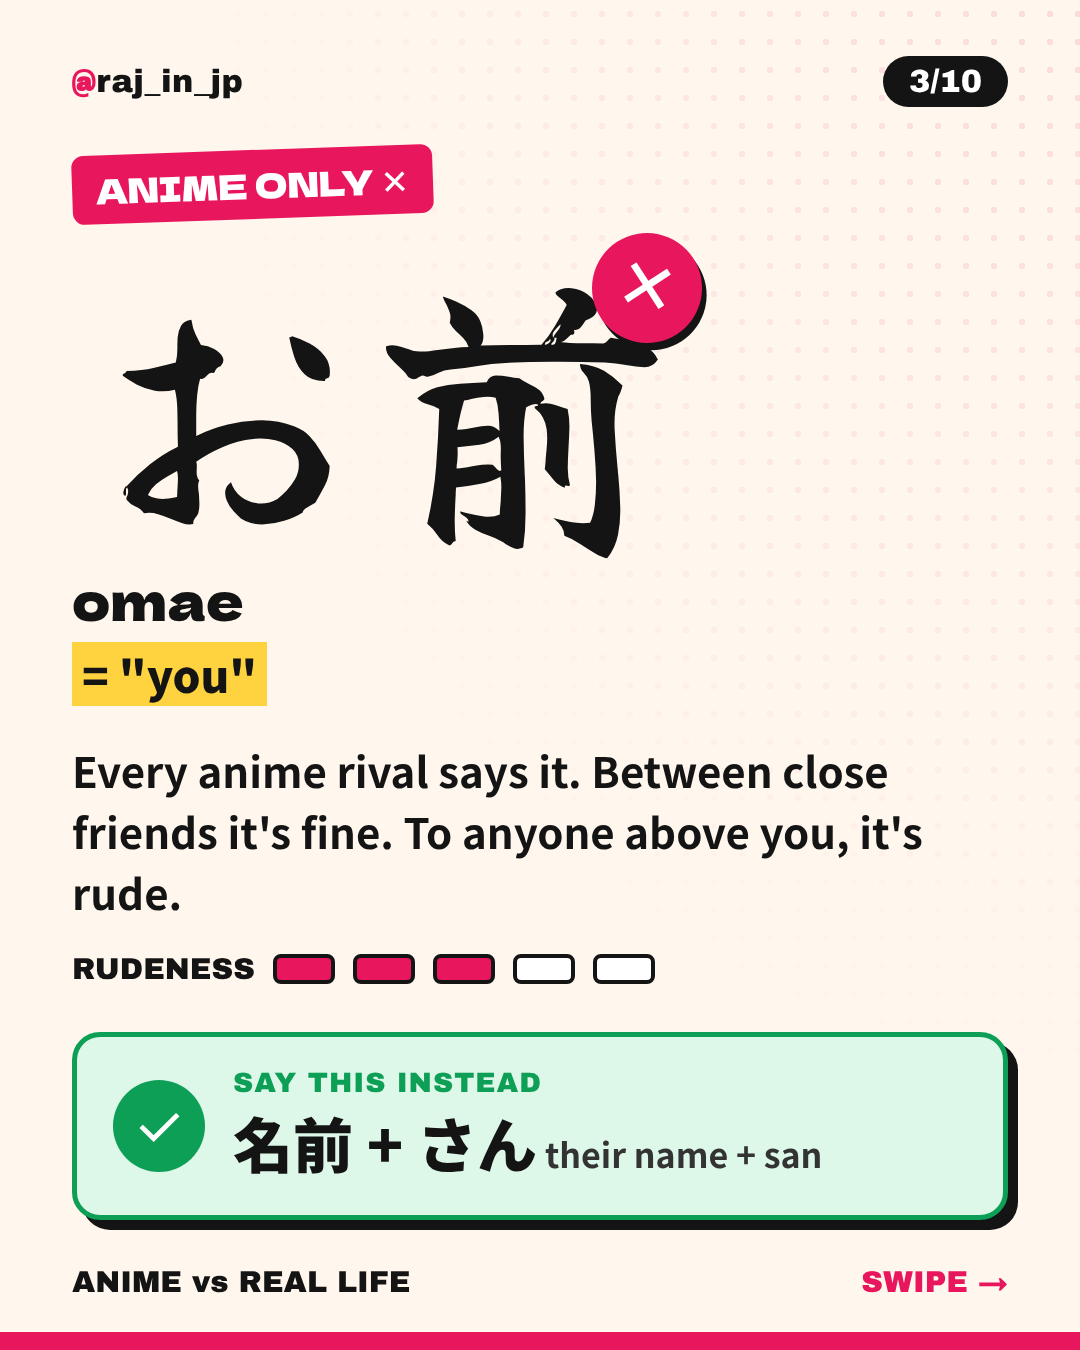
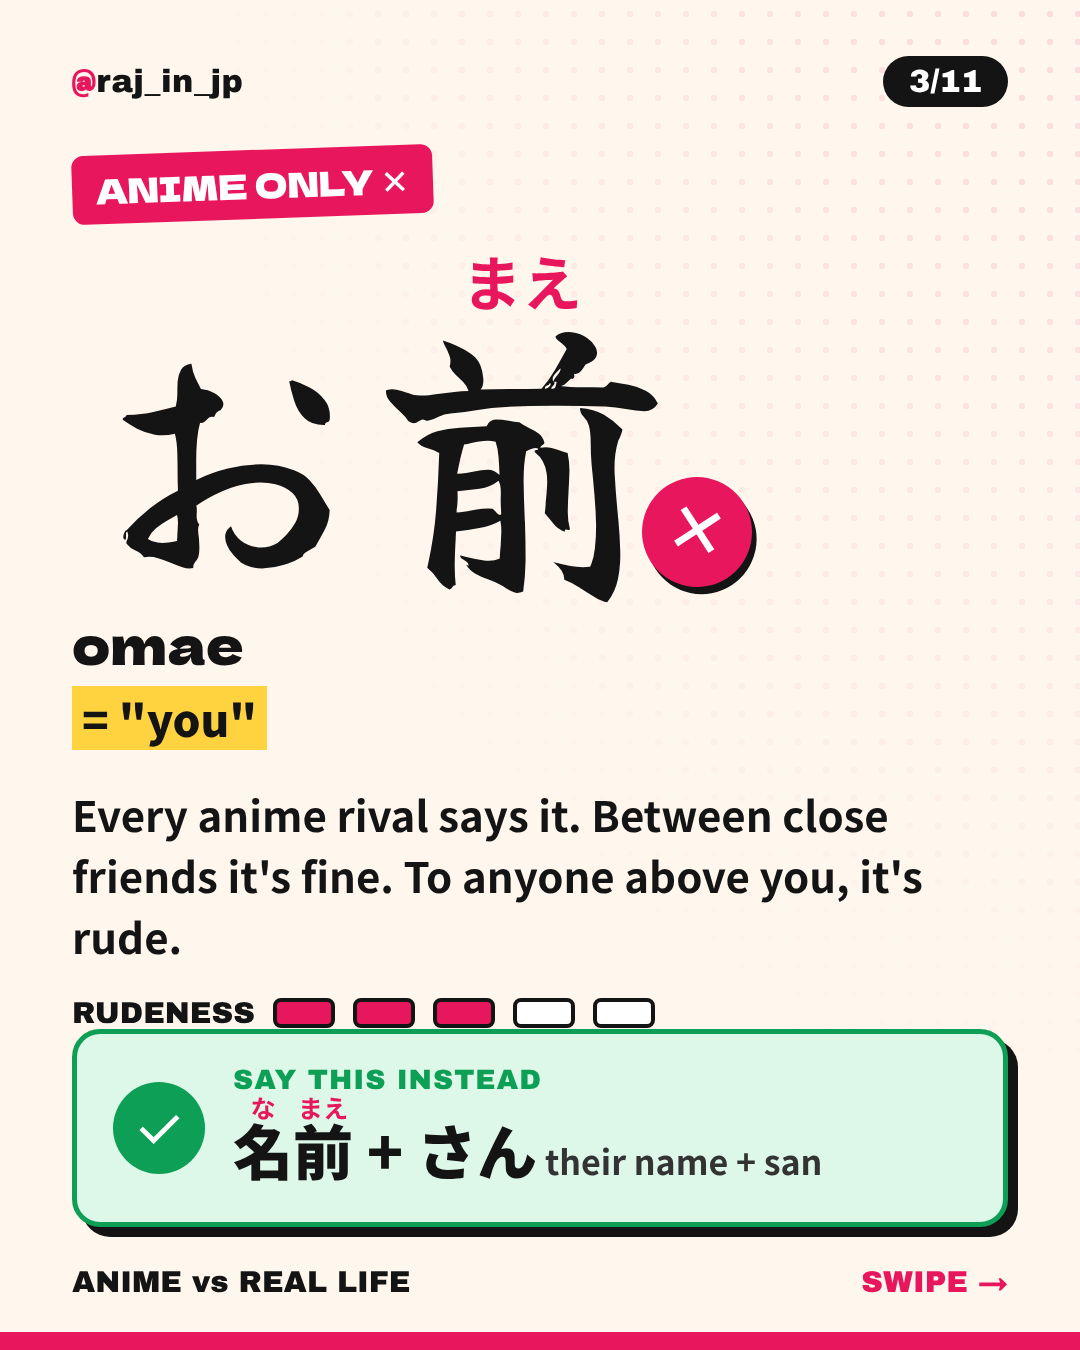
Add furigana, quiz slide and image slots to anime carousel
- Furigana on every kanji (お前, 貴様, 俺様, 拙者, 名前, 私, 田中)
- New slide 10: A/B/C quiz to drive comments (now 11 slides)
- Optional anime image slot on every slide

Claude-Session: https://claude.ai/code/session_01EaoD2uAGWmKnrxvvdunxK2

diff --git a/instagram/carousels/anime-japanese/build.py b/instagram/carousels/anime-japanese/build.py
@@ -10,7 +10,7 @@ import os, html
 HERE = os.path.dirname(os.path.abspath(__file__))
 IMG = os.path.join(HERE, "images")
 HANDLE = "@raj_in_jp"
-TOTAL = 10
+TOTAL = 11
 
 
 def img(name):
@@ -39,13 +39,20 @@ body{background:#888;font-family:NotoJP,'Noto Color Emoji',sans-serif;color:var(
 .bottom{position:absolute;bottom:52px;left:72px;right:72px;display:flex;justify-content:space-between;align-items:center;font-family:Archivo,'Noto Color Emoji';font-size:30px;z-index:5}
 .swipe{color:var(--pink)}
 .bar{position:absolute;left:0;right:0;bottom:0;height:18px;background:var(--pink)}
+rt{font-family:NotoJP,sans-serif;font-weight:700;font-size:.42em;color:var(--pink);letter-spacing:0;line-height:1.1}
+.word rt{font-size:.2em}
+.word ruby,.word{ruby-position:over}
+ruby{ruby-align:center}
+.bubble rt{font-size:.24em}
 /* content slide */
+.pic{position:absolute;right:-30px;top:10px;width:290px;height:380px;object-fit:cover;border-radius:28px;border:6px solid var(--ink);box-shadow:10px 10px 0 var(--pink);transform:rotate(3deg);z-index:1}
+
 .c{position:absolute;top:150px;left:72px;right:72px;bottom:130px;display:flex;flex-direction:column}
 .tag{display:inline-block;align-self:flex-start;font-family:Dela;font-size:34px;background:var(--pink);color:#fff;padding:10px 24px;border-radius:12px;transform:rotate(-2deg)}
 .wordrow{display:flex;align-items:center;gap:36px;margin-top:34px}
 .word{font-family:Brush;font-size:300px;line-height:1;position:relative}
 .word.long{font-size:210px}
-.x{position:absolute;right:-30px;top:-20px;width:110px;height:110px;border-radius:50%;background:var(--pink);color:#fff;font-family:Archivo;font-size:70px;
+.x{z-index:3;position:absolute;right:-80px;bottom:10px;width:110px;height:110px;border-radius:50%;background:var(--pink);color:#fff;font-family:Archivo;font-size:70px;
   display:flex;align-items:center;justify-content:center;transform:rotate(12deg);box-shadow:6px 6px 0 var(--ink)}
 .romaji{font-family:Dela;font-size:52px;margin-top:8px}
 .mean{font-family:NotoJP;font-weight:900;font-size:44px;margin-top:6px}
@@ -82,7 +89,9 @@ def word_slide(n, word, romaji, meaning, desc, mlabel, mval, say=None, say_note=
         bottom = f'<div class="say"><div class="ok">✓</div><div><small>SAY THIS INSTEAD</small><b>{say}</b><em>{say_note}</em></div></div>'
     else:
         bottom = f'<div class="no">{never[0]}<small>{never[1]}</small></div>'
-    inner = f"""<div class="c">
+    pic = img(f"s{n:02d}.png")
+    pic_html = f'<img class="pic" src="{pic}">' if pic else ""
+    inner = f"""<div class="c">{pic_html}
 <div class="tag">ANIME ONLY ✕</div>
 <div class="wordrow"><div class="word{' long' if long else ''}">{word}<div class="x">✕</div></div></div>
 <div class="romaji">{romaji}</div>
@@ -100,7 +109,7 @@ slides = []
 cov = img("cover.png")
 cover_img = (f'<img src="{cov}" style="position:absolute;right:-20px;bottom:110px;height:640px;z-index:2">' if cov else
              '<div style="position:absolute;right:50px;bottom:150px;z-index:2;transform:rotate(6deg)">'
-             '<div style="background:#fff;border:8px solid #141414;border-radius:56px;padding:22px 44px 30px;font-family:Brush;font-size:135px;line-height:1;box-shadow:14px 14px 0 #E8175D">お前！</div>'
+             '<div class="bubble" style="background:#fff;border:8px solid #141414;border-radius:56px;padding:22px 44px 30px;font-family:Brush;font-size:135px;line-height:1.25;box-shadow:14px 14px 0 #E8175D">お前！</div>'
              '<div style="width:0;height:0;border-left:36px solid transparent;border-right:36px solid transparent;border-top:60px solid #141414;margin-left:80px"></div></div>')
 slides.append(f"""<section class="slide" id="s1">
 <div style="position:absolute;inset:0;background:repeating-conic-gradient(from 0deg at 85% 70%,rgba(232,23,93,.10) 0deg 6deg,transparent 6deg 14deg)"></div>
@@ -120,7 +129,7 @@ stake_visual = (f'<img src="{st}" style="width:100%;height:560px;object-fit:cove
                 '<div style="margin-top:auto;display:flex;gap:28px;align-items:stretch">'
                 '<div style="flex:1;background:#fff;border:6px solid #141414;border-radius:28px;padding:34px;box-shadow:10px 10px 0 #E8175D">'
                 '<div style="font-family:Archivo;font-size:30px;color:#E8175D">YOU, TO YOUR BOSS</div>'
-                '<div style="font-family:Brush;font-size:118px;line-height:1.2;margin-top:24px;white-space:nowrap">おい、<br>お前！</div></div>'
+                '<div class="bubble" style="font-family:Brush;font-size:112px;line-height:1.4;margin-top:6px;white-space:nowrap">おい、<br>お前！</div></div>'
                 '<div style="flex:1;background:#141414;color:#fff;border-radius:28px;padding:34px;box-shadow:10px 10px 0 #E8175D">'
                 '<div style="font-family:Archivo;font-size:30px;color:#FFD23F">YOUR BOSS</div>'
                 '<div style="font-size:150px;line-height:1.1;margin-top:20px">😨</div>'
@@ -167,18 +176,48 @@ slides.append(frame(9, f"""<div class="c">
 <div style="margin-top:auto;font-weight:900;font-size:40px;line-height:1.4">Not sure? <span style="background:var(--yellow);padding:0 10px">Name + さん and です</span> are always safe.</div>
 </div>"""))
 
-# 10 CTA
-slides.append(f"""<section class="slide" id="s10" style="background:var(--pink);color:#fff">
+# 10 QUIZ
+q = img("s10.png")
+q_html = f'<img src="{q}" style="width:100%;height:210px;object-fit:cover;border-radius:24px;border:6px solid #141414;margin-top:22px">' if q else ""
+opts = [("A", "おい、お前！"), ("B", "田中さん、すみません"), ("C", "貴様！")]
+opts_html = "".join(
+    f'<div style="display:flex;align-items:center;gap:26px;margin-top:{22 if q else 30}px;background:#fff;border:5px solid #141414;border-radius:24px;padding:{12 if q else 22}px 28px;box-shadow:8px 8px 0 #141414">'
+    f'<div style="flex:none;width:84px;height:84px;border-radius:50%;background:var(--pink);color:#fff;font-family:Archivo;font-size:48px;display:flex;align-items:center;justify-content:center">{k}</div>'
+    f'<div style="font-weight:900;font-size:48px;line-height:1.5">{t}</div></div>' for k, t in opts)
+slides.append(frame(10, f"""<div class="c">
+<div class="tag" style="background:var(--yellow);color:var(--ink)">QUIZ TIME 🧠</div>
+<div style="font-family:Dela;font-size:62px;line-height:1.15;margin-top:30px">You need your boss,<br><span class='jp'>田中</span>. What do you say?</div>
+{q_html}
+{opts_html}
+<div style="margin-top:auto;font-family:Dela;font-size:46px;color:var(--pink)">Comment A, B or C 👇</div>
+</div>"""))
+
+# 11 CTA
+slides.append(f"""<section class="slide" id="s11" style="background:var(--pink);color:#fff">
 <div style="position:absolute;inset:0;background-image:radial-gradient(rgba(255,255,255,.18) 3px,transparent 3.5px);background-size:28px 28px"></div>
 <div class="top"><div class="handle" style="color:#fff">@raj_in_jp</div><div class="pg" style="background:#fff;color:var(--pink)">{TOTAL}/{TOTAL}</div></div>
 <div style="position:absolute;top:230px;left:96px;right:96px;z-index:3;text-align:center">
-  <div style="font-size:170px;line-height:1">📩</div>
+  {('<img src="'+img("s11.png")+'" style="height:300px;border-radius:28px;border:6px solid #141414;box-shadow:10px 10px 0 #141414">') if img("s11.png") else '<div style="font-size:170px;line-height:1">📩</div>'}
   <div style="font-family:Dela;font-size:92px;line-height:1.12;margin-top:40px">Send this to<br>your anime<br>friend</div>
   <div style="font-weight:900;font-size:46px;margin-top:34px">before they visit Japan.</div>
   <div style="display:inline-block;margin-top:70px;background:#fff;color:var(--ink);border-radius:999px;padding:24px 46px;font-family:Archivo;font-size:40px;box-shadow:10px 10px 0 var(--ink)">More real Japanese → <span style="color:var(--pink)">@raj_in_jp</span></div>
 </div>
 <div class="bottom" style="color:#fff"><span>ANIME vs REAL LIFE</span><span>ANIME HUB</span></div>
 <div class="bar" style="background:var(--ink)"></div></section>""")
+
+FURI = [
+    ("名前", "<ruby>名<rt>な</rt>前<rt>まえ</rt></ruby>"),
+    ("お前", "お<ruby>前<rt>まえ</rt></ruby>"),
+    ("貴様", "<ruby>貴<rt>き</rt>様<rt>さま</rt></ruby>"),
+    ("俺様", "<ruby>俺<rt>おれ</rt>様<rt>さま</rt></ruby>"),
+    ("拙者", "<ruby>拙<rt>せっ</rt>者<rt>しゃ</rt></ruby>"),
+    ("田中", "<ruby>田<rt>た</rt>中<rt>なか</rt></ruby>"),
+    ("私", "<ruby>私<rt>わたし</rt></ruby>"),
+]
+body = "".join(slides)
+for k, v in FURI:
+    body = body.replace(k, v)
+slides = [body]
 
 with open(os.path.join(HERE, "slides.html"), "w") as f:
     f.write(f"<!doctype html><html><head><meta charset='utf-8'><style>{CSS}</style></head><body>{''.join(slides)}</body></html>")

diff --git a/instagram/carousels/anime-japanese/README.md b/instagram/carousels/anime-japanese/README.md
@@ -1,13 +1,19 @@
-# Anime Japanese that gets you fired (10-slide carousel)
+# Anime Japanese that gets you fired (11-slide carousel)
 
-`slides/` has the 10 finished 1080x1350 PNGs, ready to upload in order.
+`slides/` has the 11 finished 1080x1350 PNGs, ready to upload in order.
 
 ## Add your own anime images (optional)
 
-Save them in `images/` with these exact names, then rebuild:
+Every kanji has furigana. Save images in `images/` with these exact names, then
+rebuild. Any slide without an image still works as it is.
 
-- `cover.png`: replaces the お前！ speech bubble on slide 1
-- `stake.png`: replaces the two boss cards on slide 2
+| File | Slide | Shape |
+|---|---|---|
+| `cover.png` | 1, cover character (transparent background) | portrait |
+| `stake.png` | 2, the boss scene | landscape |
+| `s03.png` to `s08.png` | 3 to 8, one character per word | portrait 3:4 |
+| `s10.png` | 10, quiz scene | wide |
+| `s11.png` | 11, CTA character | square |
 
 ## Rebuild
 
